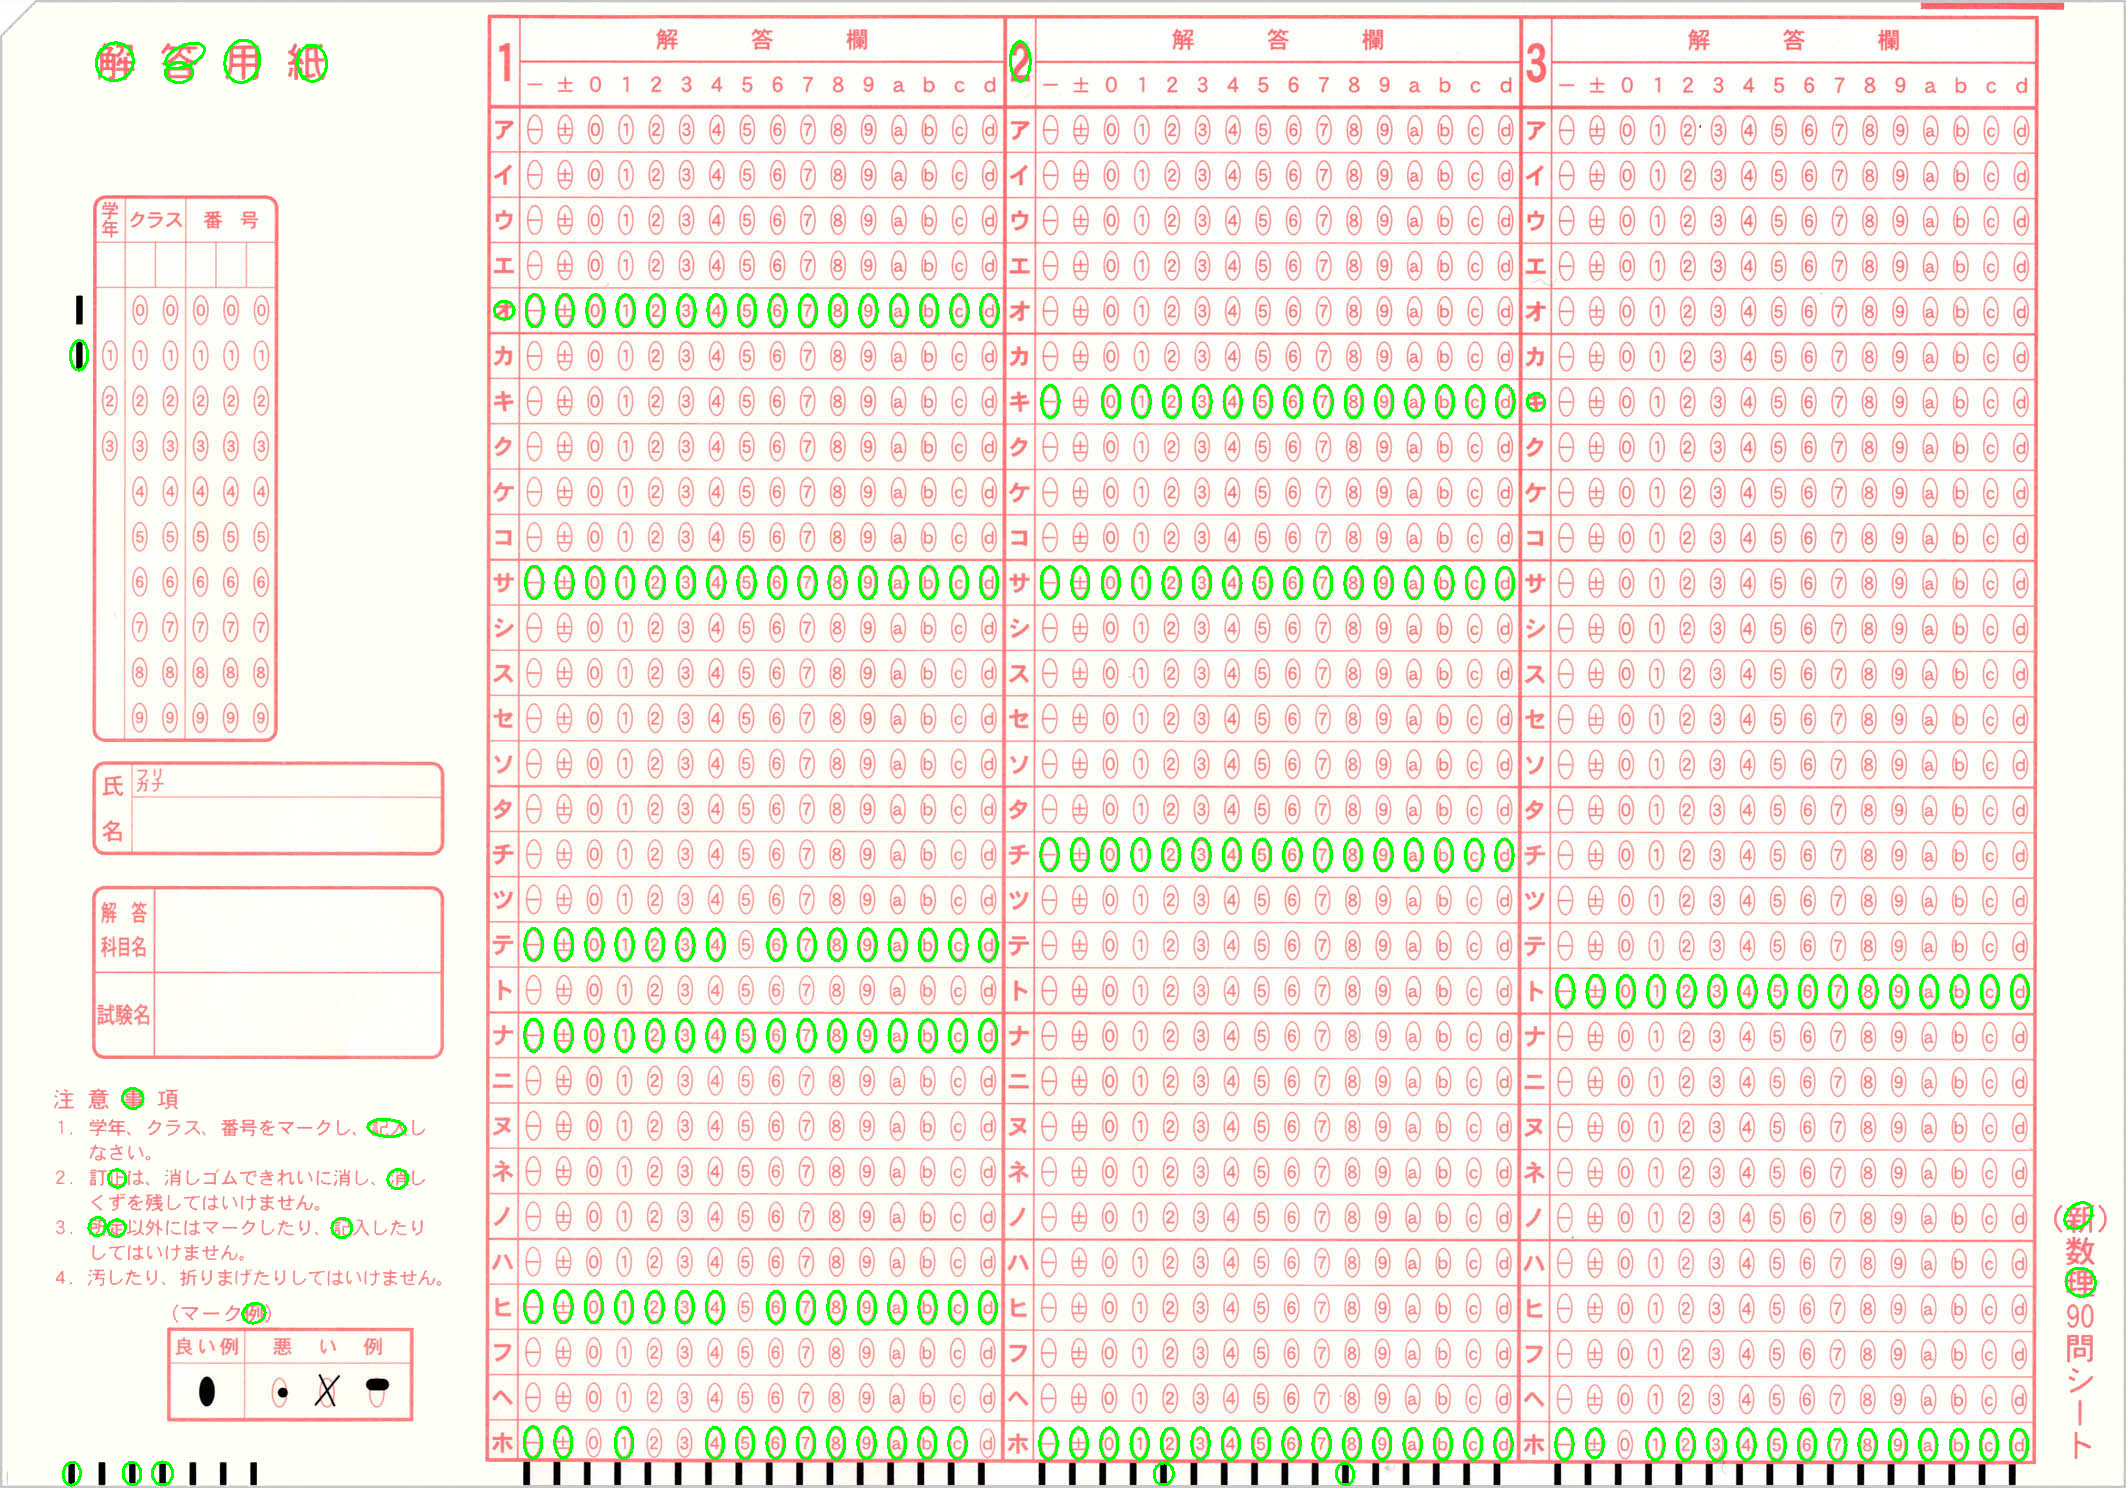
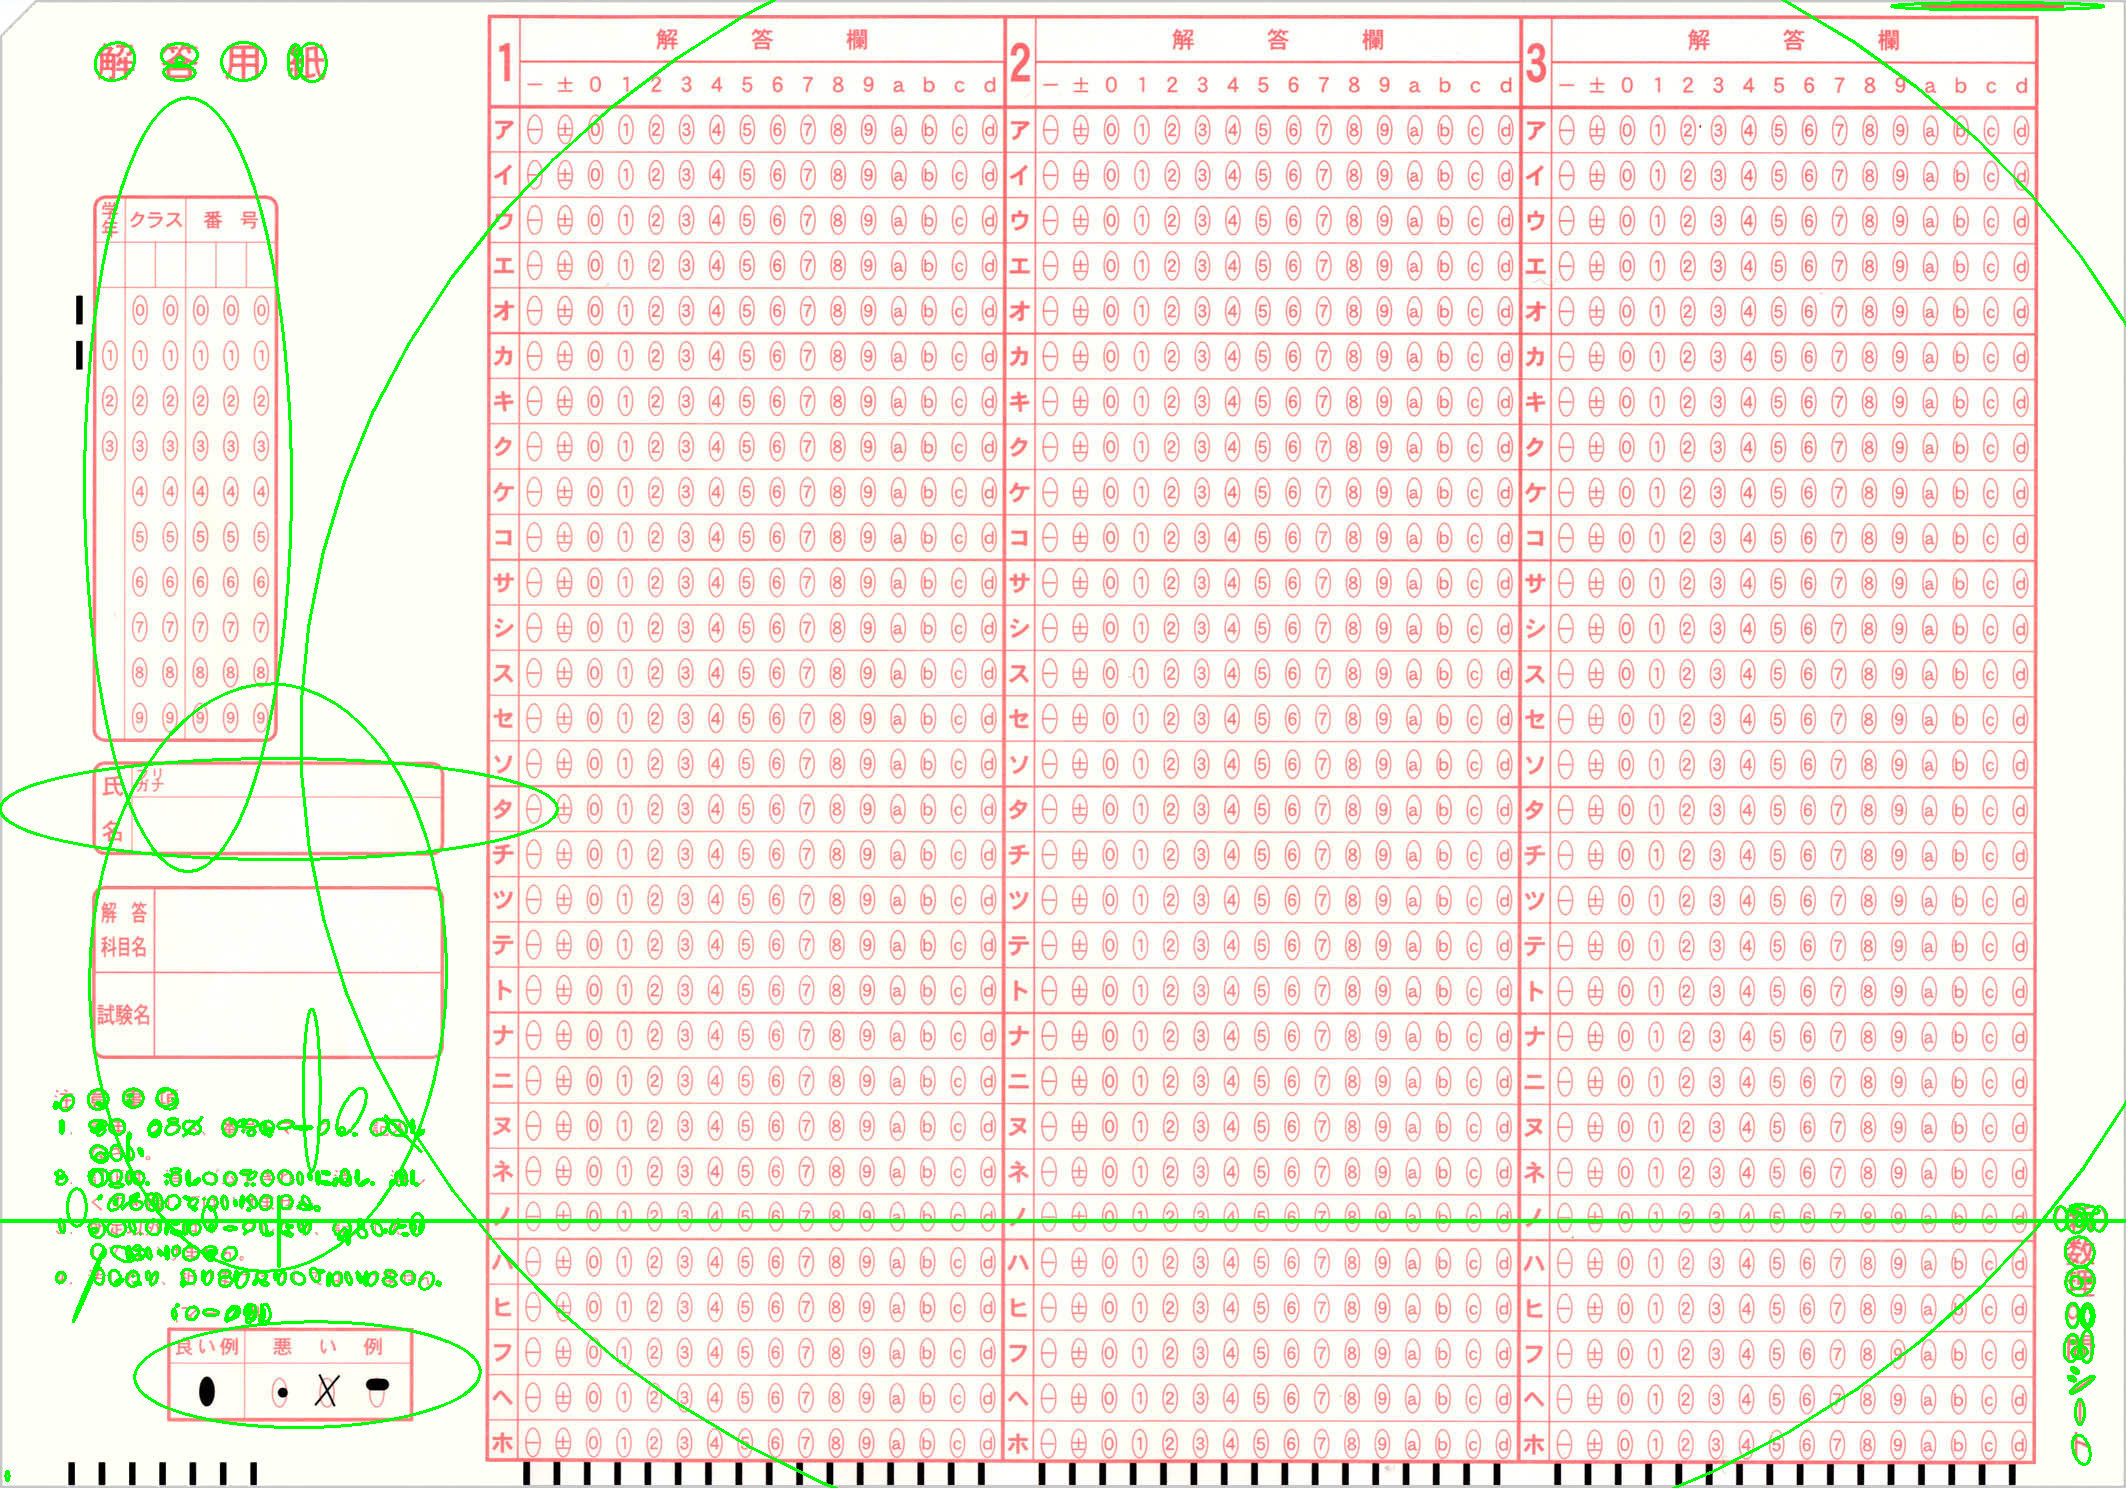
ver2

diff --git a/flame.py b/flame.py
@@ -1,38 +1,74 @@
 import cv2
 import numpy as np
+from concurrent.futures import ThreadPoolExecutor
+from scipy.spatial import KDTree
+import math
 
-# 画像を読み込む
 image = cv2.imread('base2.jpg')
 hsv = cv2.cvtColor(image, cv2.COLOR_BGR2HSV)
 
-# 色の範囲を定義（赤色の範囲を広く設定）
+# 色の範囲を定義
 lower_color1 = np.array([0, 50, 50])
 upper_color1 = np.array([10, 255, 255])
 lower_color2 = np.array([170, 50, 50])
 upper_color2 = np.array([180, 255, 255])
 
-# 色範囲に含まれるピクセルを白、その他を黒にする
+# ２値化の前準備
 mask1 = cv2.inRange(hsv, lower_color1, upper_color1)
 mask2 = cv2.inRange(hsv, lower_color2, upper_color2)
 mask = cv2.bitwise_or(mask1, mask2)
 
-# マスクを適用して元の画像を二値化
+# マスクから二値化
 result = cv2.bitwise_and(image, image, mask=mask)
 
-# 二値化した画像を表示
-cv2.imshow('Threshold Image', mask)
+# 画像を表示
+# cv2.imshow('Threshold Image', mask)
 
-# 輪郭を検出
+# 輪郭検出
 contours, _ = cv2.findContours(mask, cv2.RETR_TREE, cv2.CHAIN_APPROX_SIMPLE)
 
-# 楕円をフィッティング
+# 楕円の中心座標を取得
+centers = []
 for contour in contours:
-    if len(contour) >= 5:  # 楕円フィッティングには少なくとも5つの点が必要
+    if len(contour) >= 5:
         ellipse = cv2.fitEllipse(contour)
-        if ellipse[1][0] > 0 and ellipse[1][1] > 0:  # 楕円の幅と高さが正の値であることを確認
-            cv2.ellipse(image, ellipse, (0, 255, 0), 2)
+        center = ellipse[0]
+        if math.isfinite(center[0]) and math.isfinite(center[1]):
+            centers.append(center)
+
+# KDTreeを作成
+tree = KDTree(centers)
+
+def process_contour(contour):
+    if len(contour) >= 5:  # 楕円フィッティングinit
+        ellipse = cv2.fitEllipse(contour)
+        if ellipse[1][0] > 0 and ellipse[1][1] > 0:  # 楕円が正の範囲である
+            min_size = (10, 25)  # 最小サイズ (幅, 高さ)
+            max_size = (20, 30)  # 最大サイズ (幅, 高さ)
+            aspect_ratio = max(ellipse[1][0], ellipse[1][1]) / min(ellipse[1][0], ellipse[1][1])
+            if min_size[0] <= ellipse[1][0] <= max_size[0] and min_size[1] <= ellipse[1][1] <= max_size[1] and aspect_ratio > 1.6:
+                # 楕円の中心座標
+                center = ellipse[0]
+                # KDTreeを使用して近くの中心を検索
+                indices = tree.query_ball_point(center, 20)
+                count = len(indices) - 1  # 自分自身を除く
+                if count >= 2:
+                    cv2.ellipse(image, ellipse, (0, 255, 0), 2)
+                else:
+                    # 垂直および水平の線を引く
+                    for other_center in centers:
+                        if other_center != center:
+                            if abs(other_center[0] - center[0]) < 50 or abs(other_center[1] - center[1]) < 50:
+                                cv2.line(image, (int(center[0]), 0), (int(center[0]), image.shape[0]), (255, 0, 0), 1)
+                                cv2.line(image, (0, int(center[1])), (image.shape[1], int(center[1])), (255, 0, 0), 1)
+                                break
+
+# マルチスレッドで輪郭を処理
+with ThreadPoolExecutor() as executor:
+    executor.map(process_contour, contours)
 
 # 結果を表示
-cv2.imshow('Detected Ellipses', image)
+cv2.imshow('Detected Objects', image)
+cv2.imwrite('out.png', image)
 cv2.waitKey(0)
 cv2.destroyAllWindows()

diff --git a/app.py b/app.py
@@ -2,40 +2,49 @@ import cv2
 import numpy as np
 from PIL import Image
 
-# 楕円検出を行う関数
+# 楕円検出
 def detect_ellipses(image_path, min_size, max_size):
     # 画像を読み込む
     image = cv2.imread(image_path)
+
+    hsv = cv2.cvtColor(image, cv2.COLOR_BGR2HSV)
+
+# 色の範囲を定義
+    lower_color1 = np.array([0, 50, 50])
+    upper_color1 = np.array([10, 255, 255])
+    lower_color2 = np.array([170, 50, 50])
+    upper_color2 = np.array([180, 255, 255])
+
+# 二値化準備
+    mask1 = cv2.inRange(hsv, lower_color1, upper_color1)
+    mask2 = cv2.inRange(hsv, lower_color2, upper_color2)
+    mask = cv2.bitwise_or(mask1, mask2)
+
+# 二値化
+    result = cv2.bitwise_and(image, image, mask=mask)
     
     # グレイスケール化
     gray = cv2.cvtColor(image, cv2.COLOR_BGR2GRAY)
     
-    # ガウシアンブラーを適用してノイズを除去
+    # ガウシアンブラー
     blurred = cv2.GaussianBlur(gray, (5, 5), 0)
     
     # エッジ検出
-    edges = cv2.Canny(blurred, 50, 150)
+    edges = cv2.Canny(result, 50, 150)
     
     # 輪郭検出
     contours, _ = cv2.findContours(edges, cv2.RETR_EXTERNAL, cv2.CHAIN_APPROX_SIMPLE)
     
     ellipses = []
     for contour in contours:
-        if len(contour) >= 5:  # 楕円フィッティングには最低5点必要
+        if len(contour) >= 5:  # 楕円フィッティングinit
             ellipse = cv2.fitEllipse(contour)
-            (center, axes, angle) = ellipse
-            
-            # 楕円の長軸と短軸を取得
-            major_axis = max(axes)
-            minor_axis = min(axes)
-            
-            # サイズ範囲内の楕円のみを抽出
-            if min_size <= major_axis <= max_size and min_size <= minor_axis <= max_size:
-                ellipses.append(ellipse)
+            if ellipse[1][0] > 0 and ellipse[1][1] > 0:  # 楕円の幅と高さが正の値
+                cv2.ellipse(image, ellipse, (0, 255, 0), 2)
     
     return ellipses, image
 
-# レイヤーを作成する関数
+# レイヤー作成
 def create_layer(image, ellipses):
     layer = np.zeros_like(image)
     
@@ -44,7 +53,7 @@ def create_layer(image, ellipses):
     
     return layer
 
-# 変化を検出する関数
+# 変化を検出
 def detect_changes(image1, image2, layer):
     # レイヤーを適用
     masked_image1 = cv2.bitwise_and(image1, layer)
@@ -59,12 +68,12 @@ def detect_changes(image1, image2, layer):
 
 # メイン処理
 def main():
-    image1_path = 'base1.jpg'
+    image1_path = 'base2.jpg'
     image2_path = 'test2.png'
     
     # 楕円検出のサイズ範囲を指定（ピクセル単位）
-    min_size = 17  # 最小サイズ
-    max_size = 50  # 最大サイズ
+    min_size = 0  # 最小サイズ
+    max_size = 1000  # 最大サイズ
     
     # 楕円検出
     ellipses, image1 = detect_ellipses(image1_path, min_size, max_size)
